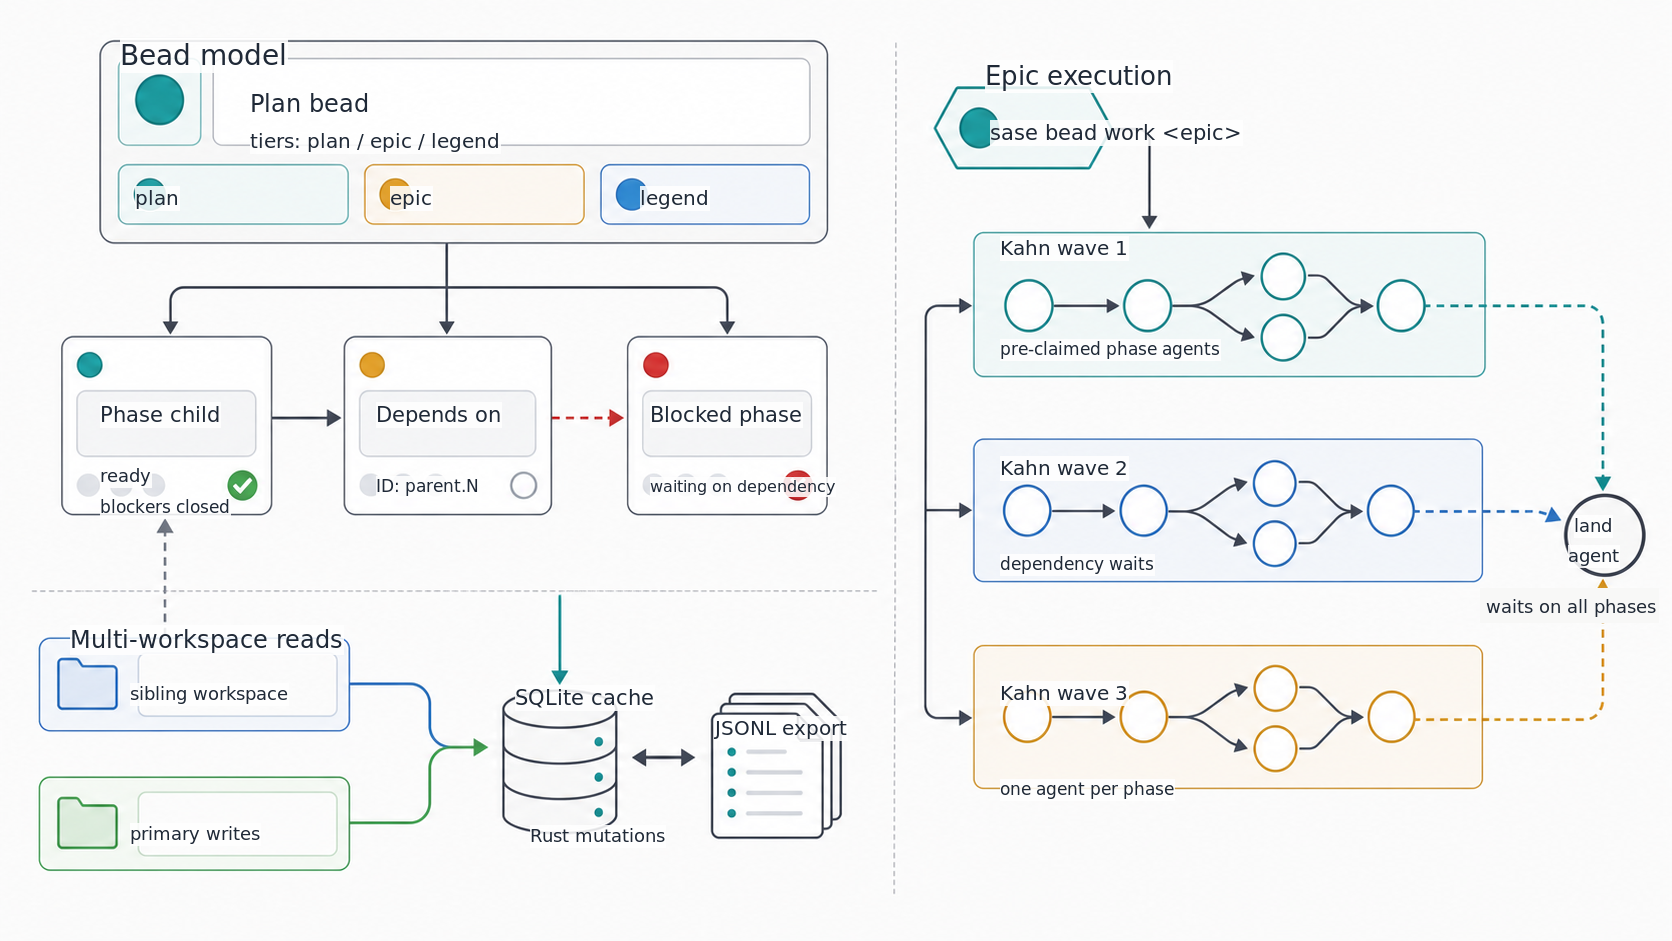
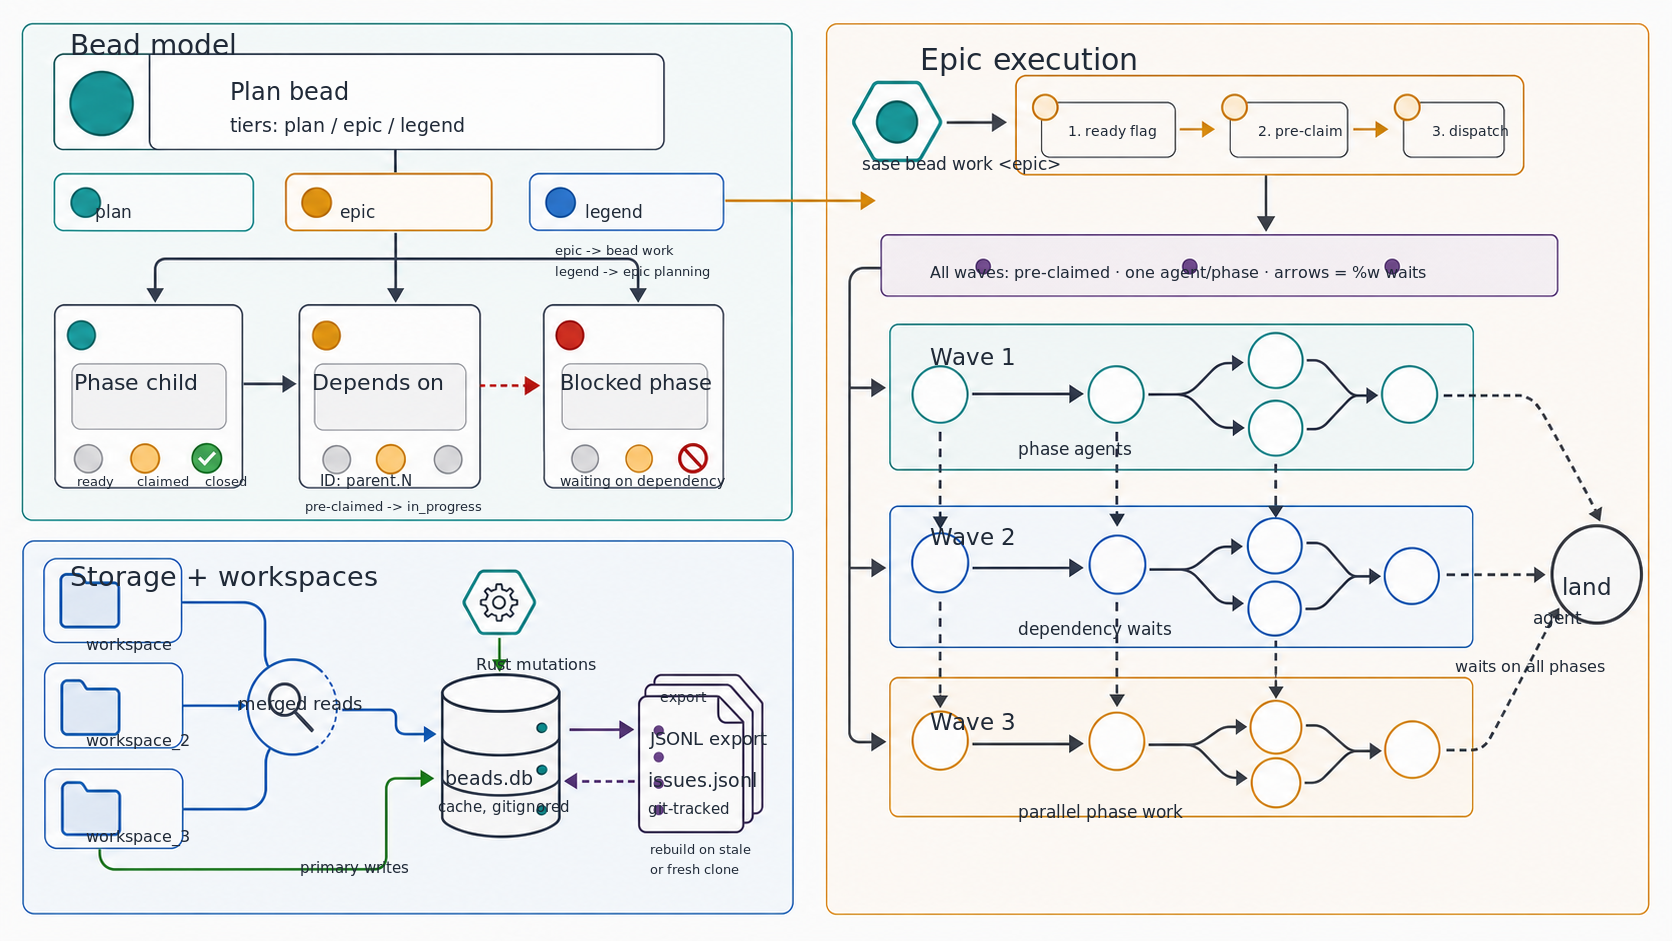
chore: regenerate bead-epic-work infographic (sase-2s.11) (sase-2s)
PLAN=sdd/tales/202605/complete_sase_2s.md

diff --git a/docs/images/bead-epic-work-infographic.prompt.md b/docs/images/bead-epic-work-infographic.prompt.md
@@ -7,41 +7,62 @@ pdf: false
 ## Target
 
 - Document: `docs/beads.md`
-- Insertion point: after the opening paragraph and before `## Table of Contents` (already inserted)
+- Insertion point: after the opening paragraph and before `## Table of Contents`
 - Image: `docs/images/bead-epic-work-infographic.png`
 - Alt text: `Bead issue model, storage sync, and epic wave execution`
 
 ## Final GPT Image Prompt
 
-Create a clean 16:9 landscape architecture infographic base for technical documentation about an issue tracker called
-Bead. Light neutral background, crisp flat vector-like illustration, no logos, no decorative gradients, no fake
-screenshots. IMPORTANT: use no readable words, no letters, no numbers, no symbols that look like text; leave intentional
-blank label space inside panels for later deterministic labels.
+- Use case: infographic-diagram
+- Asset type: documentation infographic base for `docs/images/bead-epic-work-infographic.png`
 
-Composition: two clearly separated main zones.
+Primary request: Create a clean 16:9 landscape architecture infographic base for technical documentation about an issue
+tracker called Bead and its epic work automation. This is a text-free base image: use no readable words, no letters, no
+numbers, and no symbols that look like text. Leave generous blank label spaces for deterministic labels added later.
 
-Left zone: issue data model. Show a hierarchy: one large container card at top with three small tier chips, several
-child task cards below connected by thin lines, and dependency arrows showing one task ready and one task blocked.
-Include simple status dots/checkmarks only, not text.
+Style/medium: crisp flat vector-like technical architecture diagram, GitHub Markdown friendly, light neutral background,
+thin dark-gray strokes, restrained accent colors, no logos, no decorative gradients, no fake screenshots.
 
-Center/bottom zone: storage and workspaces. Show a small database cylinder and a document/ledger stack connected with
-bidirectional sync arrows. Show two workspace folders feeding into a merged read lens, and a separate primary-write
-arrow into the database.
+Composition/framing: three clearly separated zones with visible gutters and faint section tints.
 
-Right zone: epic execution flow. Show an epic command trigger feeding into three horizontal wave bands, each wave
-containing small agent nodes connected by dependency arrows, with a final landing node at the far right waiting on every
-phase agent node. Use clear arrow direction left-to-right.
+Left zone, issue model: show a large plan bead container at the top with three small tier chips. Emphasize the middle
+chip as the epic tier, and show a thin arrow from that chip toward the epic execution zone. Under the plan bead, show
+three child phase cards connected by hierarchy lines and dependency arrows. Include three small status pips on or near
+the phase cards: open, in-progress, and closed/check style. Show one phase as ready, one in progress, and one blocked
+via neutral iconography only, with no text.
 
-Visual style: GitHub Markdown friendly, readable at 900px wide, restrained mixed accent colors (teal, blue, amber,
-green, red accents) on a neutral white/off-white base, thin dark-gray strokes, generous spacing, professional
-architecture diagram aesthetic. The final image should look complete even after adding short labels later.
+Bottom-left zone, storage and workspaces: show three workspace folder icons feeding into a merged-read lens. Show a
+separate primary-write arrow from the primary workspace path into a SQLite-style database cylinder. Show a Rust core
+glyph or block sending mutation arrows into the database. Show a distinct document stack for JSONL export beside the
+database, with a one-way export arrow from database to document stack and a one-way rebuild/import arrow from document
+stack back to database. Keep the database and JSONL document visually distinct.
+
+Right zone, epic execution: show a command trigger shape feeding first into a staged pre-launch ribbon with three
+numbered-looking but textless chips, then into three horizontal Kahn-wave bands. Each wave band contains small circular
+phase-agent nodes; dependency arrows connect nodes left-to-right and between waves. Add a global header strip above all
+waves for cross-wave properties. Show a final landing node at the far right. Draw incoming wait arrows from
+representative nodes in all three waves into the landing node, not only from the last wave.
+
+Color palette: neutral white/off-white base; teal for plan/model, blue for storage/read, green for primary write/Rust
+mutation, amber for epic/legend accents, red for blocked state, dark gray for connectors.
+
+Constraints: 16:9 landscape, readable at 900px wide after labels are added, complete-looking after post-processing,
+consistent with polished software documentation diagrams. Avoid tiny details, dense texture, ornamental backgrounds,
+drop shadows that obscure labels, and any generated text.
 
 ## Post-Processing Notes
 
-The generated base was intentionally text-free. Final labels were added deterministically with ImageMagick using DejaVu
-Sans. Labels summarize the bead model, SQLite/JSONL Rust-backed storage, multi-workspace read/write behavior, Kahn-wave
-phase scheduling, pre-claimed agents, and the final land agent.
+The generated base was intentionally text-free and was saved by the built-in image generation tool under
+`$CODEX_HOME/generated_images/.../ig_07a7d36da75a7b5d016a00ca10ce8c81968ab0bd34e7f41936.png`.
 
-Audit note: `docs/beads.md`, `src/sase/bead/work.py`, and `tests/test_bead/test_work_epic_plan.py` describe the current
-epic behavior: the land agent waits on every launched phase agent, not just leaf phases. The raster label near the land
-agent was updated to say `waits on all phases` so the image matches that behavior.
+Final labels were added locally with ImageMagick and DejaVu Sans. The deterministic labels address the critique by
+showing:
+
+- all three phase states, including the pre-claimed `in_progress` state;
+- tier semantics, with `epic` feeding `sase bead work` and `legend` feeding the epic-planning chain elsewhere;
+- three workspace folders feeding merged reads, with primary writes labeled on the write path;
+- Rust-backed mutations, `beads.db` as the gitignored cache, and `issues.jsonl` as the git-tracked export/rebuild
+  artifact;
+- the command's pre-launch sequence: ready flag, pre-claim, dispatch;
+- a global wave caption for shared behavior instead of per-wave misleading captions;
+- land-agent wait arrows from all waves, matching `land_waits_on` for every launched phase agent.
